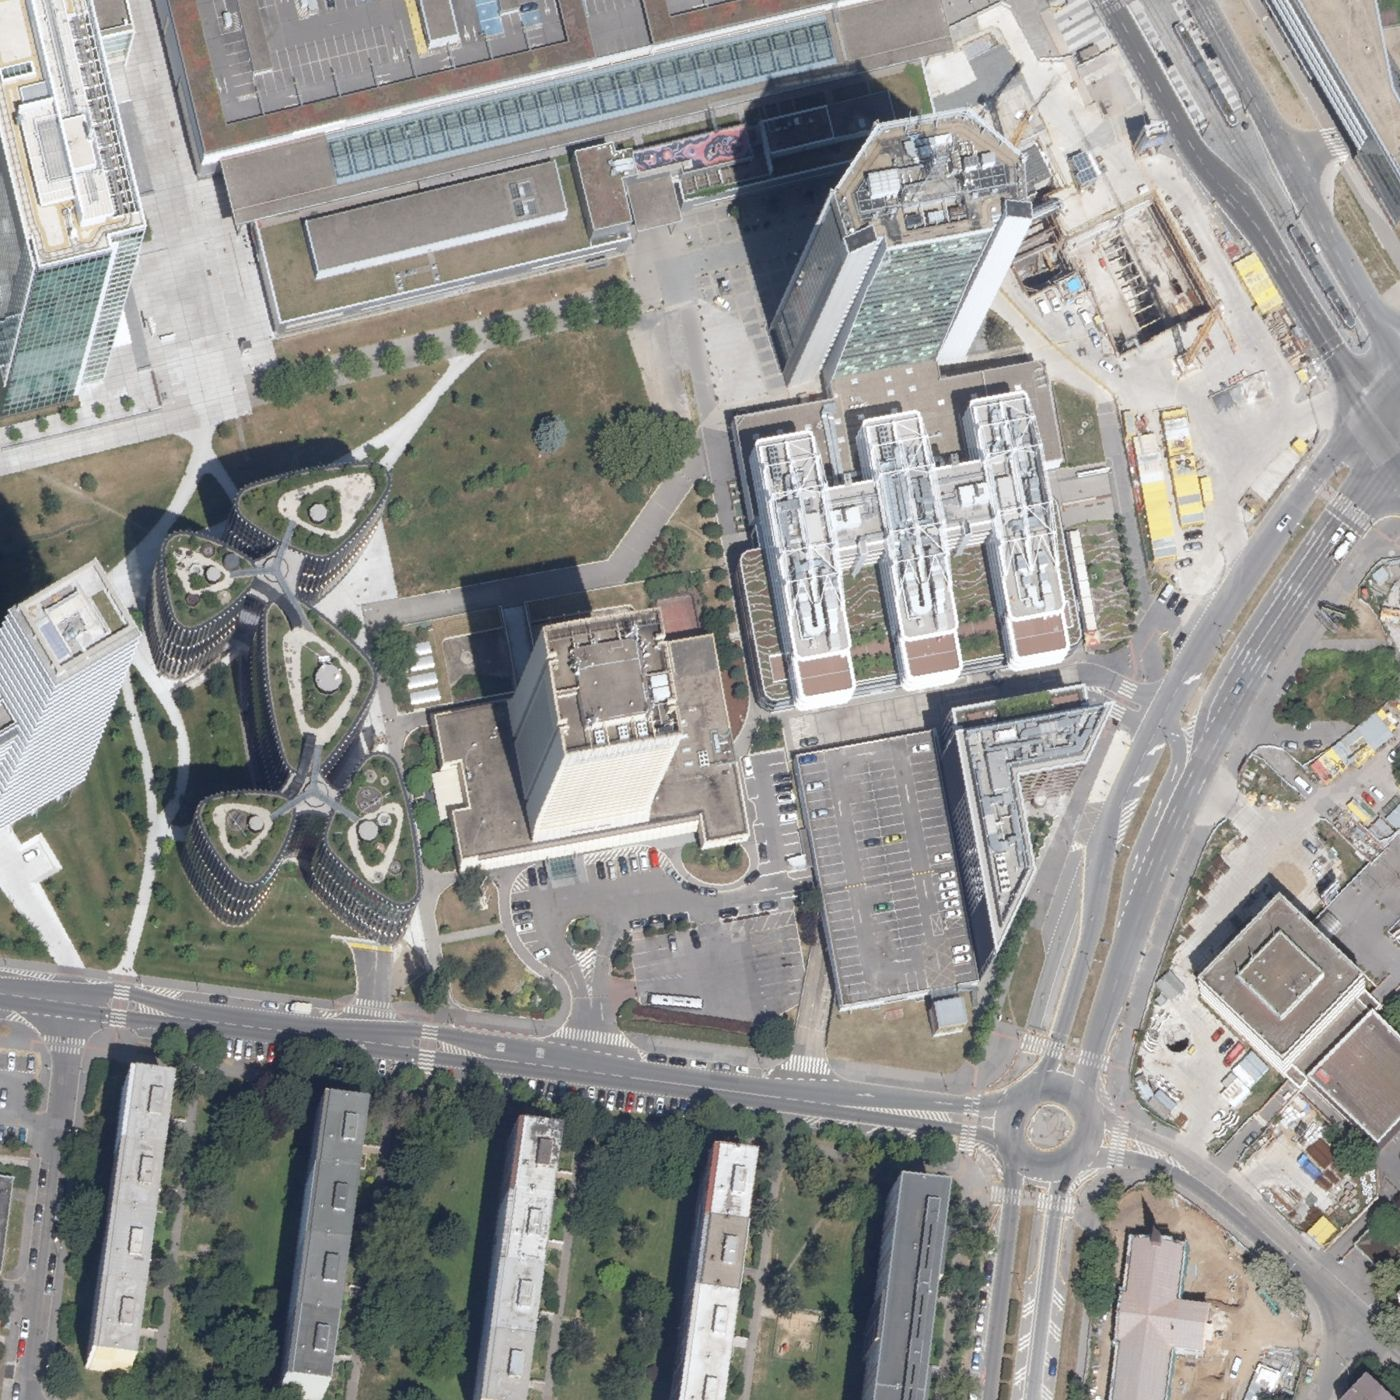
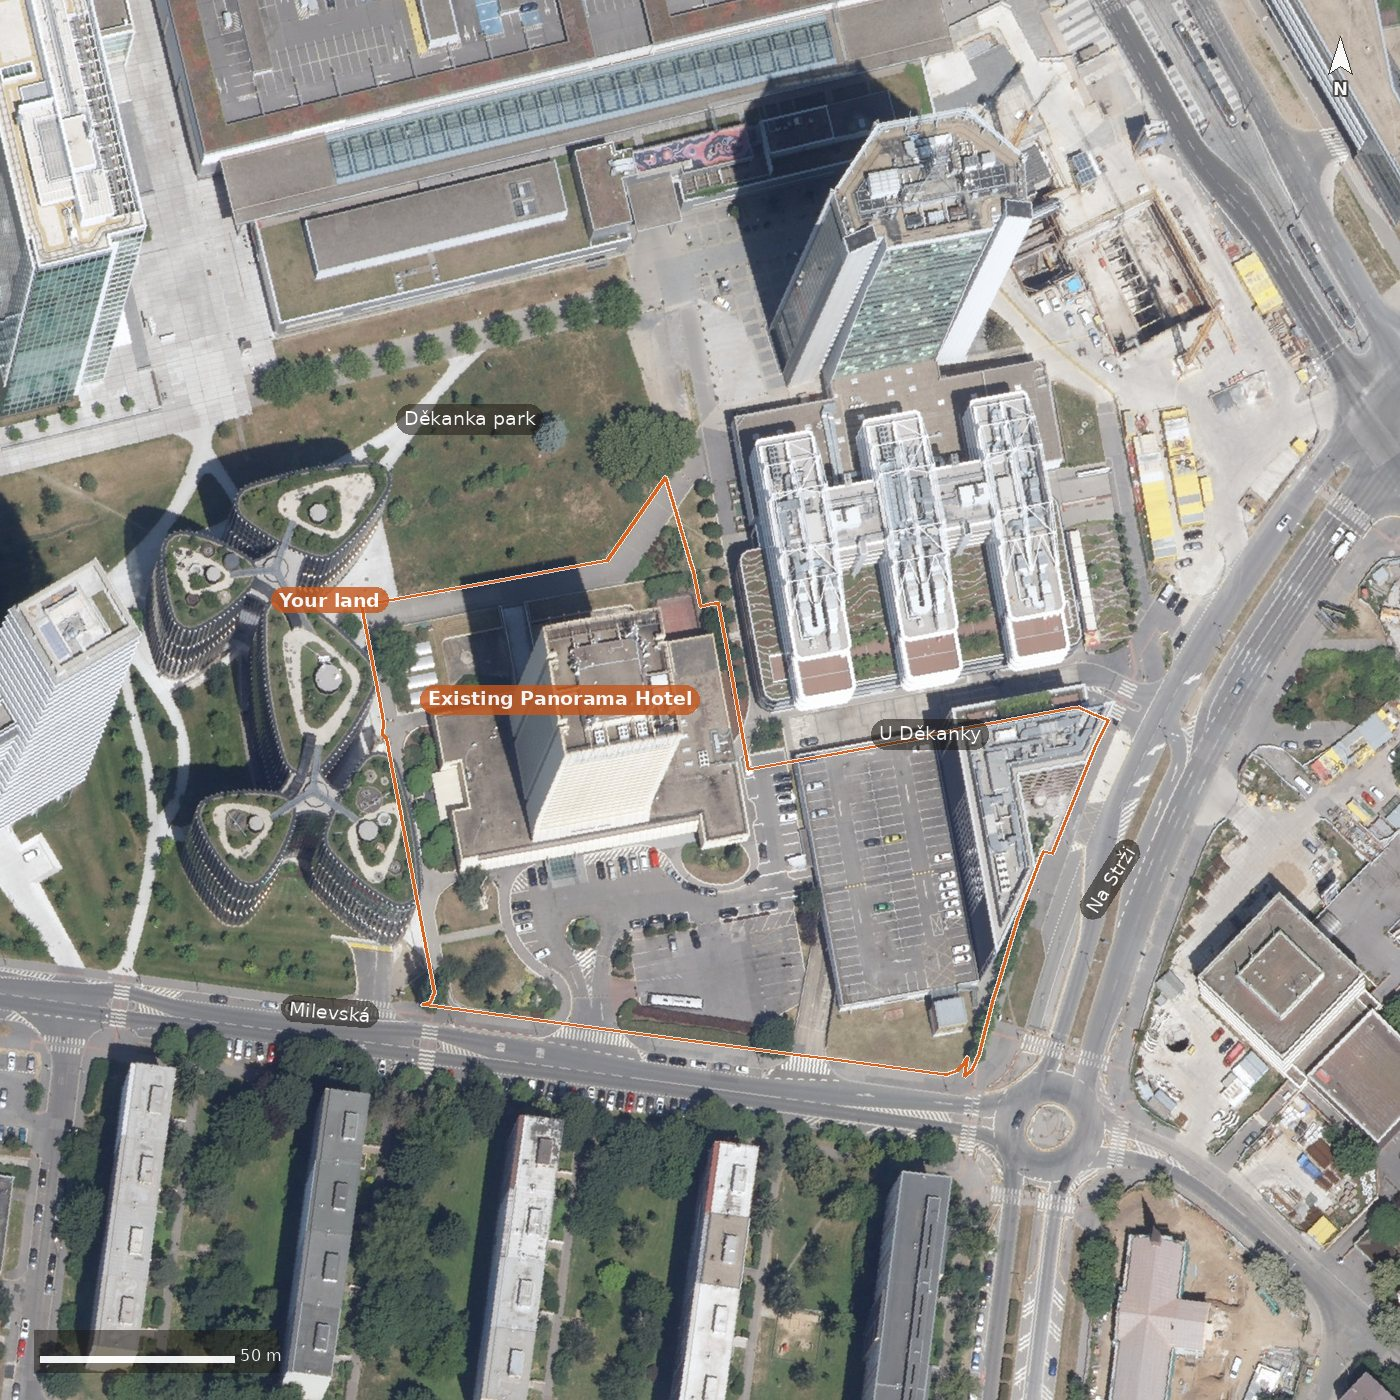
Open questions: labelled aerial map, exact land area tag, drop Street View link and site caption
Claude-Session: https://claude.ai/code/session_018B2fhzwy7eJKvh2gFWRBB4

diff --git a/01_brief/open_questions.html b/01_brief/open_questions.html
@@ -511,14 +511,13 @@ footer { margin-top: 56px; padding-top: 18px; border-top: 1px solid var(--line);
     <div class="slide" data-slides>
       <div class="slide-head"><h3>The site today</h3></div>
       <div class="stage"><img alt=""><button class="nav prev" aria-label="Previous image">‹</button><button class="nav next" aria-label="Next image">›</button></div>
-      <div class="cap"><b></b><span></span></div>
+      
       <div class="thumbs">
-        <button data-src="img/s0.jpg" data-cap="Aerial photo of the area, north up (ČÚZK)"><img src="img/s0.jpg" alt="Aerial photo of the area"></button>
-        <button data-src="img/s2.jpg" data-cap="Land register map over the aerial photo, your land in orange (ČÚZK)"><img src="img/s2.jpg" alt="Land register map with your land in orange"></button>
+        <button data-src="img/s0.jpg" data-cap="Aerial photo of the area with streets and your land (ČÚZK)"><img src="img/s0.jpg" alt="Aerial photo of the area"></button>
+        <button data-src="img/s2.jpg" data-cap="Land register map, your land in orange: 16,487 m² (official ČÚZK total of 11 parcels)"><img src="img/s2.jpg" alt="Land register map with your land in orange"></button>
       </div>
       <div class="links">
         <a href="https://www.google.com/maps/search/?api=1&amp;query=50.04919,14.43819" target="_blank" rel="noopener">Open in Google Maps ↗</a>
-        <a href="https://www.google.com/maps/@?api=1&amp;map_action=pano&amp;viewpoint=50.04919,14.43819" target="_blank" rel="noopener">Open Street View ↗</a>
       </div>
     </div>
   </section>
@@ -542,7 +541,8 @@ footer { margin-top: 56px; padding-top: 18px; border-top: 1px solid var(--line);
       i = (k + btns.length) % btns.length;
       const b = btns[i];
       img.src = b.dataset.src; img.alt = b.dataset.cap;
-      num.textContent = (i + 1) + '/' + btns.length; txt.textContent = b.dataset.cap;
+      if (num) num.textContent = (i + 1) + '/' + btns.length;
+      if (txt) txt.textContent = b.dataset.cap;
       btns.forEach((x, n) => x.setAttribute('aria-current', String(n === i)));
     }
     btns.forEach((b, n) => b.addEventListener('click', () => show(n)));
